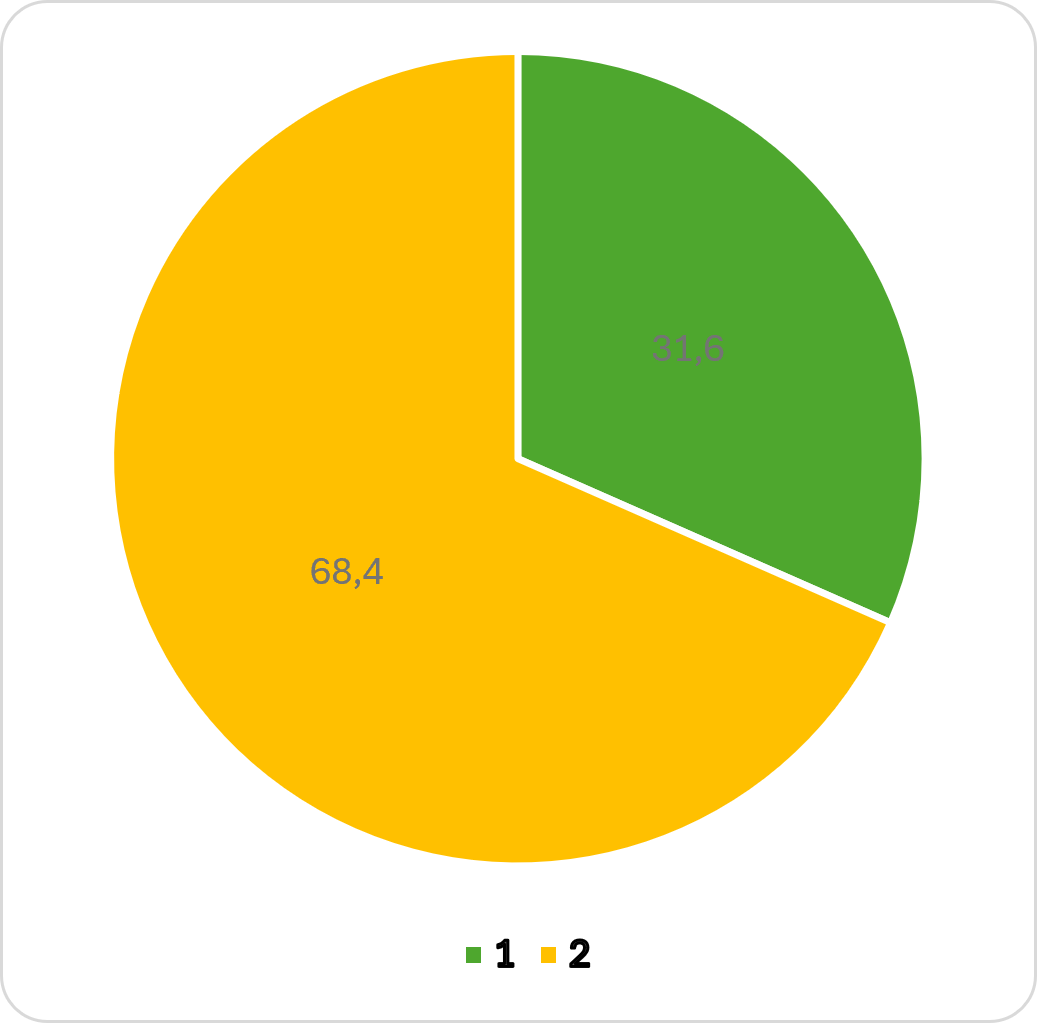
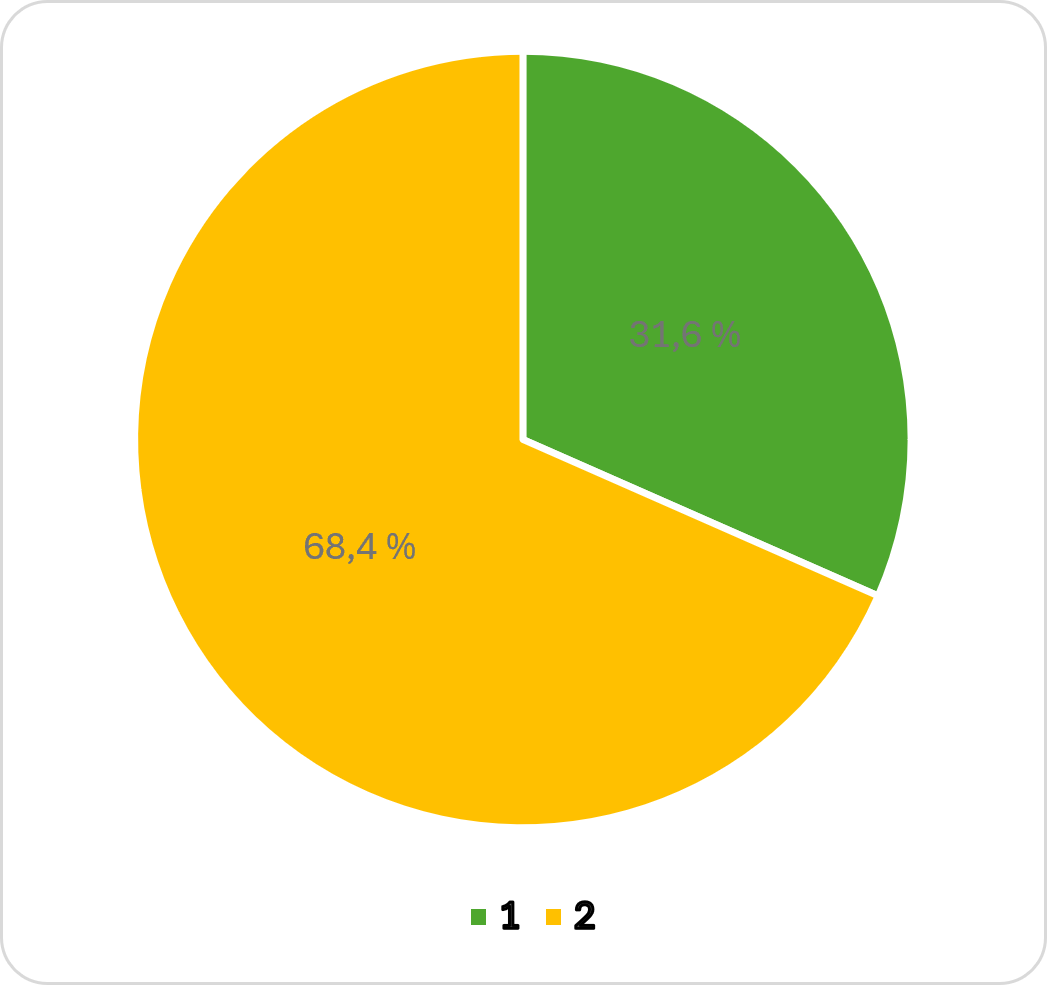
Concentration level table changes

diff --git a/pages/results.html b/pages/results.html
@@ -526,33 +526,33 @@
 									To move beyond visual interpretation and <strong>quantify</strong> the spatial extent of each concentration level, we applied the <i>Raster Layer Unique Values Report</i> tool, which returns the surface area associated with each class.
 								</p>
 
-								<p style="text-align: left; margin-bottom: 10px;">
-									The results below express, for each class, the share of Croatian territory falling within each <strong>Concentration Level</strong> (CL).
+								<p style="text-align: justify; margin-bottom: 10px;">
+									The results below express, for each class, the share of Croatian territory falling within each <strong>Concentration Level</strong> (CL). Those percentages have been computed after reprojecting the data to a Croatian CRS (EPSG:3765 - HTRS96 / Croatia TM).
 								</p>
 
 								<table class="conc-surf-table">
 									<tr>
 										<th></th>
-										<th><strong>CL 1</strong><br>(%)</th>
-										<th><strong>CL 2</strong><br>(%)</th>
-										<th><strong>CL 3</strong><br>(%)</th>
+										<th><strong style="color: #11c213;">CL 1</strong><br>(%)</th>
+										<th><strong style="color: #13dede;">CL 2</strong><br>(%)</th>
+										<th><strong style="color: #dc1010;">CL 3</strong><br>(%)</th>
 									</tr>
 									<tr>
 										<td><strong style="color:#516E89;">PM10</strong></td>
-										<td>56</td>
-										<td>44</td>
+										<td>35,80</td>
+										<td>64,20</td>
 										<td>-</td>
 									</tr>
 									<tr>
 										<td><strong style="color:#516E89;">PM2.5</strong></td>
 										<td>-</td>
-										<td>65</td>
-										<td>35</td>
+										<td>39,10</td>
+										<td>60,90</td>
 									</tr>
 									<tr>
 										<td><strong style="color:#516E89;">NO2</strong></td>
-										<td>2</td>
-										<td>98</td>
+										<td>1,90</td>
+										<td>98,10</td>
 										<td>-</td>
 									</tr>
 								</table>